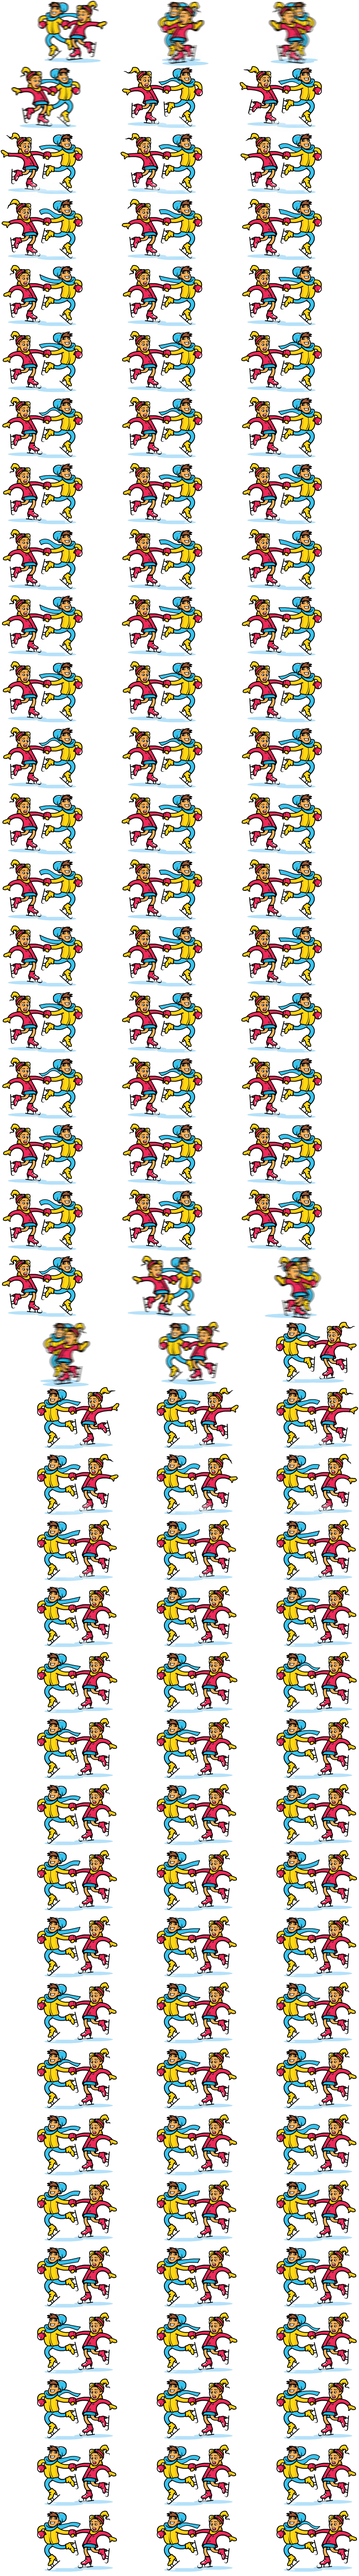
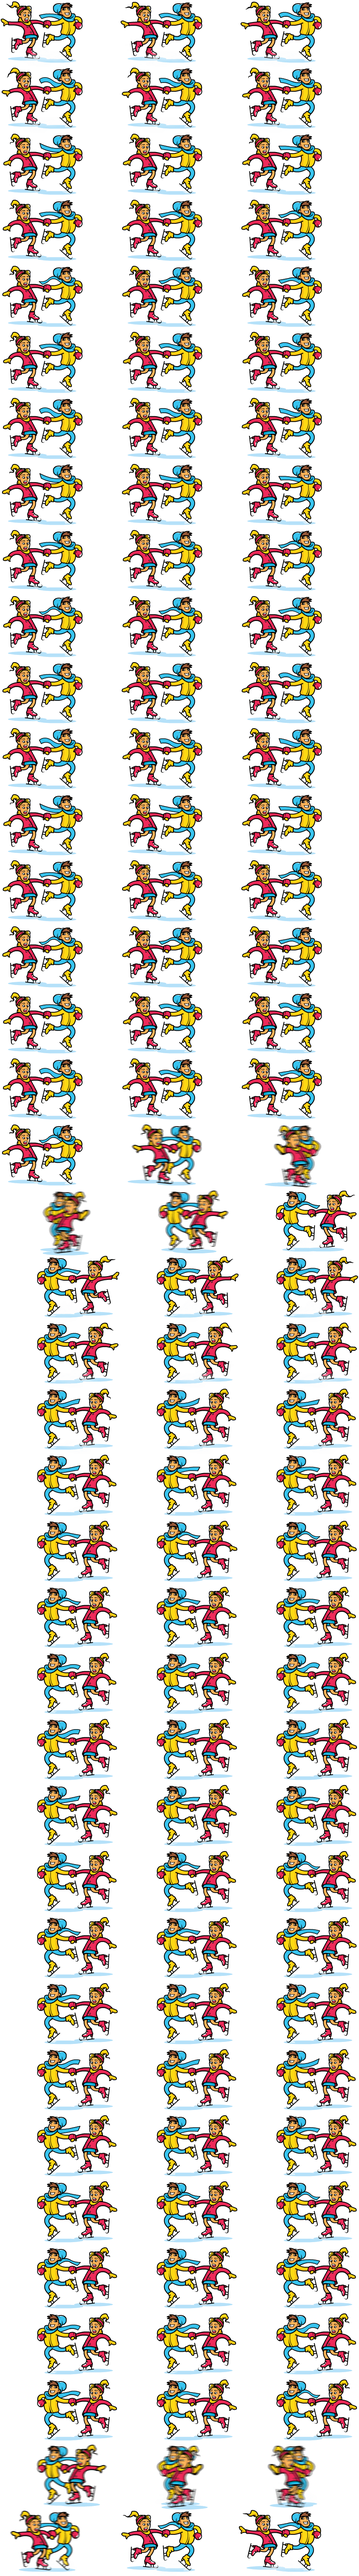
feat(stmIndexMap): fix animation on item4

Changed region(s): [[0.6735, 0.0, 0.9796, 1.0], [0.3367, 0.0, 0.6429, 1.0], [0.0, 0.0, 0.3367, 1.0]]

diff --git a/src/stmIndex/directives/stmIndexMap/stmIndexMap.js b/src/stmIndex/directives/stmIndexMap/stmIndexMap.js
@@ -144,7 +144,6 @@ angular.module('stmIndex').directive('stmIndexMap', ['$timeout', '$interval', '$
                 'width': 294,
                 'height': 162,
                 'cols': 3,
-                'backgroundTop': -324,
                 'circle4': true,
                 'left': 1570,
                 'dx': 0
@@ -367,7 +366,7 @@ angular.module('stmIndex').directive('stmIndexMap', ['$timeout', '$interval', '$
                     } else {
                         item.dx = 0;
                         item.css = {
-                            'background-position': (item.backgroundLeft || 0) + 'px' + (item.backgroundTop || 0) + 'px'
+                            'background-position': '0 0'
                         };
                     }
                     if(item.circle16 === true) {

diff --git a/src/stmIndex/directives/stmIndexMap/b-map.css b/src/stmIndex/directives/stmIndexMap/b-map.css
@@ -111,7 +111,7 @@
     top: 1640px;
     width: 294px;
     height: 162px;
-    background: url("asset/i/b-gameMap/couple_sheet_3x39.png") 0 -324px no-repeat;
+    background: url("asset/i/b-gameMap/couple_sheet_3x39.png") 0 0 no-repeat;
 }
 .b-game-item5 {
     left: 248px;
